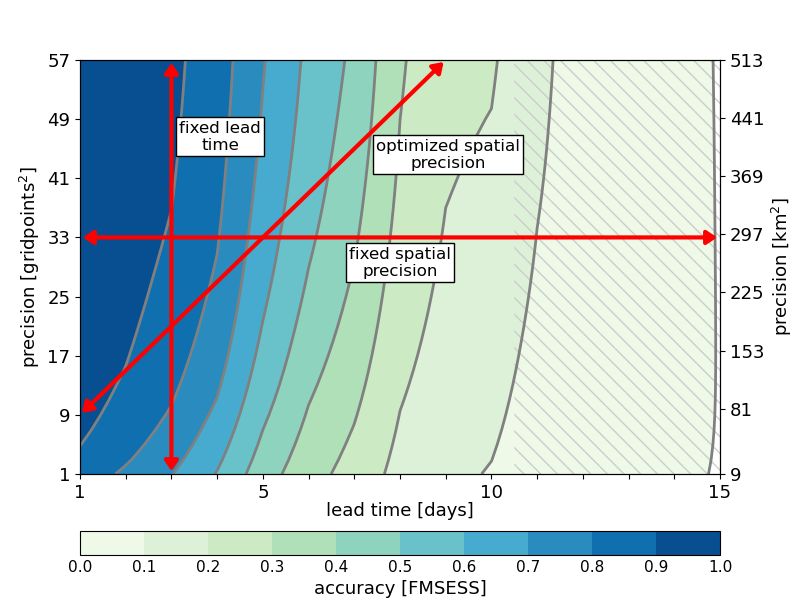
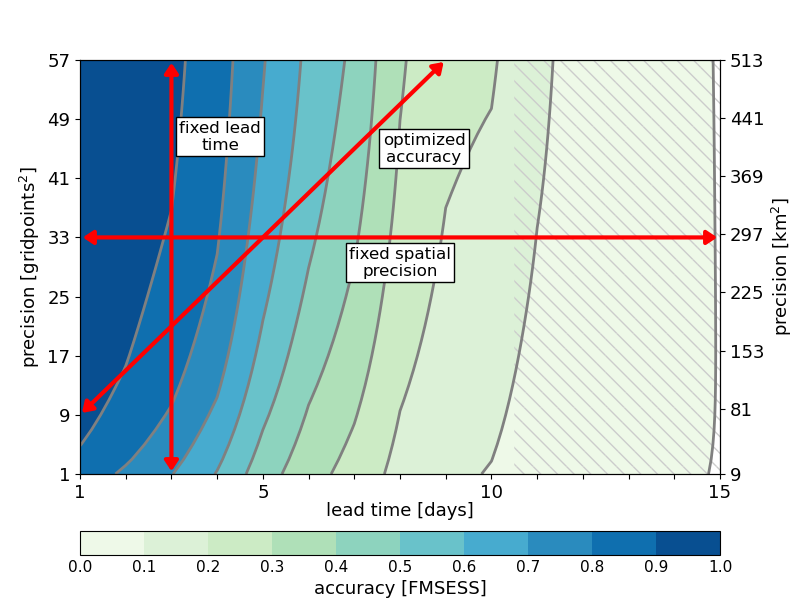
update

Changed region(s): [[0.4375, 0.21, 0.6562, 0.3]]

diff --git a/code/plot/plot-fig-05.py b/code/plot/plot-fig-05.py
@@ -86,7 +86,7 @@ fig.text(0.275, 0.75, 'fixed lead\ntime',horizontalalignment='center',
          bbox=dict(boxstyle='square,pad=.2',facecolor='w', edgecolor='k'),color='k',fontsize=fontsize+1)
 
 
-fig.text(0.56, 0.72,'optimized spatial\nprecision',
+fig.text(0.53, 0.73,'optimized\naccuracy',
          horizontalalignment='center',bbox=dict(boxstyle='square,pad=.2',facecolor='w', edgecolor='k'),color='k',fontsize=fontsize+1)
 
 fig.subplots_adjust(right=0.9, left=0.1,top=0.9,bottom=0.21)
